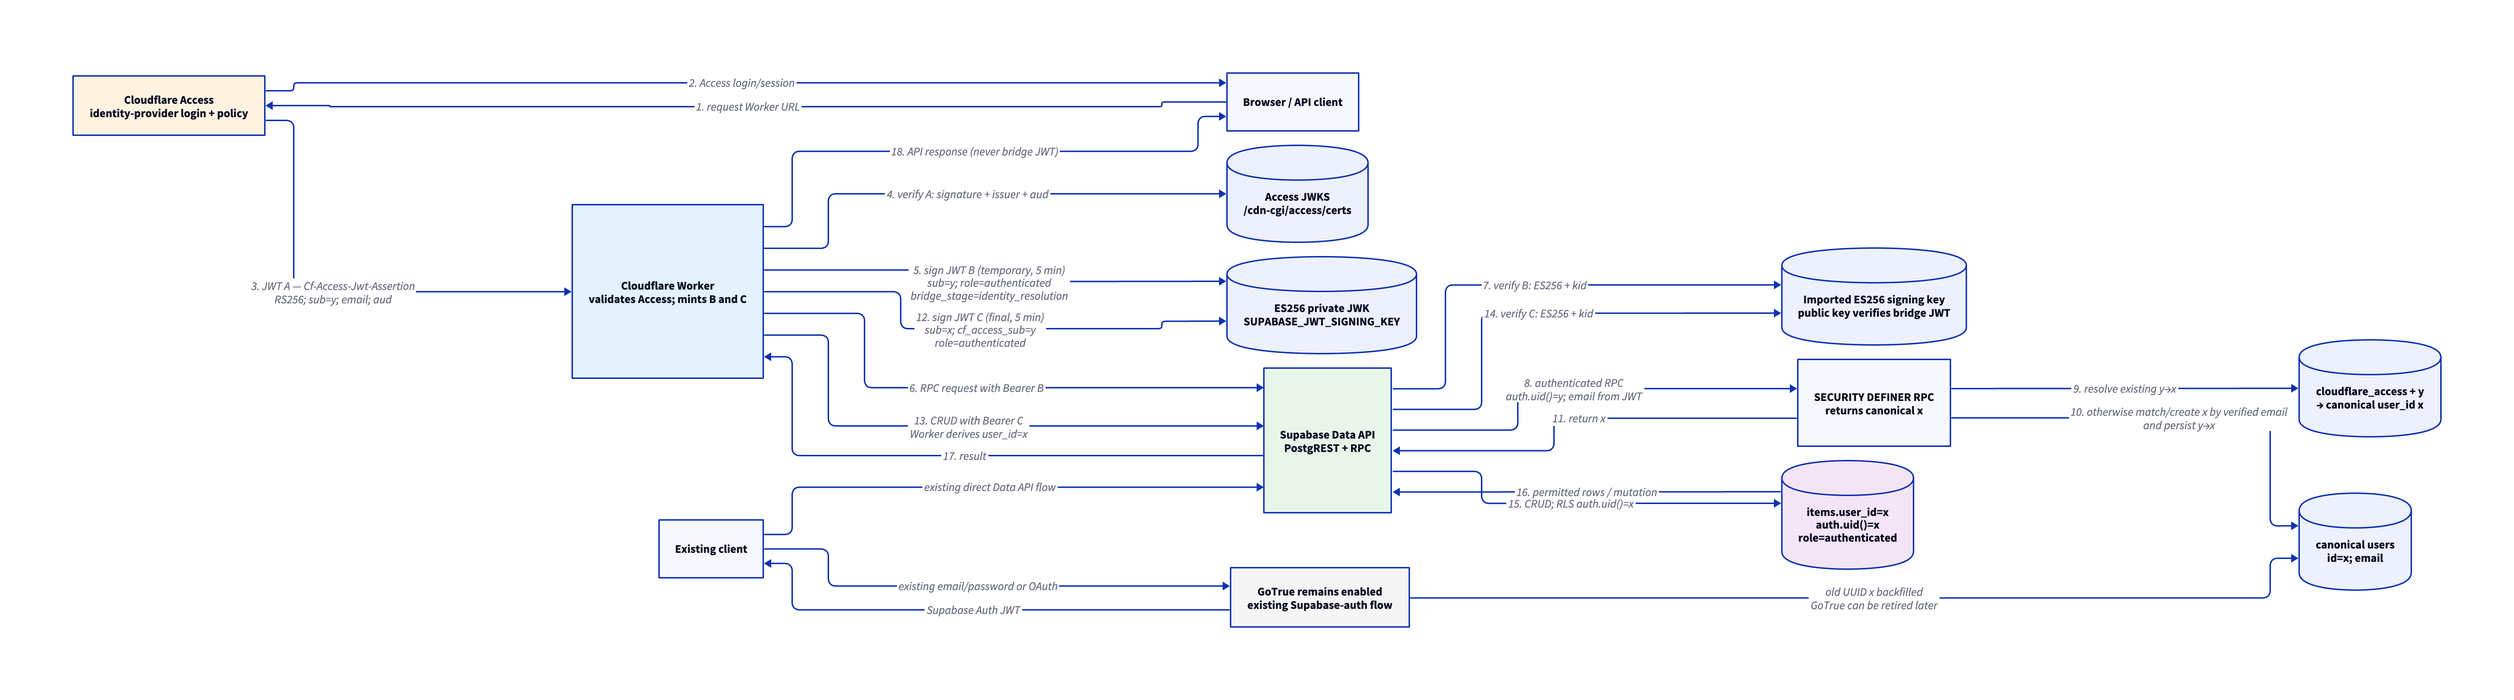
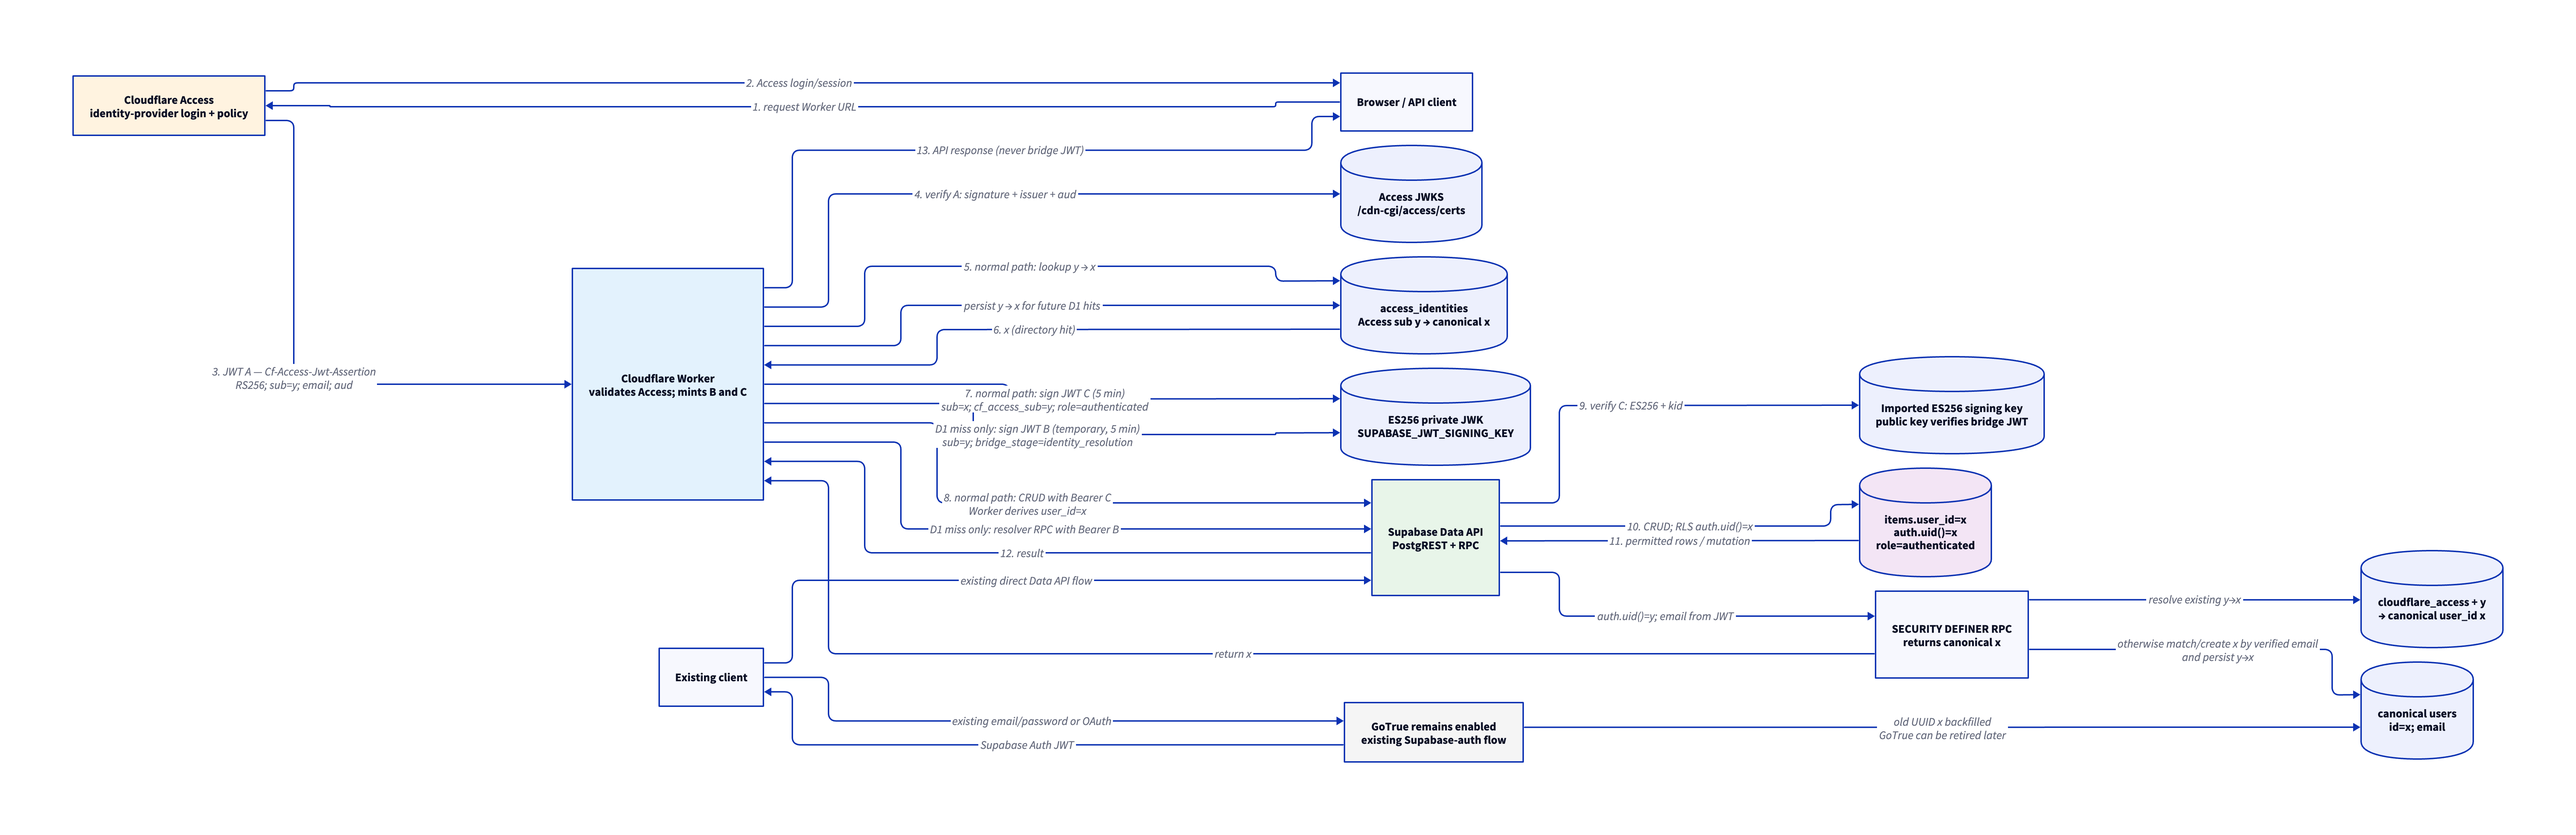
feat: add D1 identity directory for Access auth

diff --git a/src/index.ts b/src/index.ts
@@ -11,7 +11,7 @@ type AccessIdentity = {
 };
 
 // Wrangler cannot infer secret names because secrets are not stored in config.
-type WorkerEnv = {
+type WorkerEnv = Env & {
   CF_ACCESS_AUD: string;
   CF_ACCESS_TEAM_DOMAIN: string;
   DEBUG_LOG_BRIDGE_JWTS?: string;
@@ -19,6 +19,11 @@ type WorkerEnv = {
   SUPABASE_KEY: string;
   SUPABASE_JWT_KEY_ID: string;
   SUPABASE_JWT_SIGNING_KEY: string;
+};
+
+type AccessIdentityDirectoryRow = {
+  revoked_at: string | null;
+  user_id: string;
 };
 
 type PrivateSigningJwk = {
@@ -147,6 +152,18 @@ function createSupabaseClient(env: WorkerEnv, accessToken: string) {
 }
 
 async function resolveInternalUserId(identity: AccessIdentity, env: WorkerEnv): Promise<string> {
+  const directoryIdentity = await env.IDENTITY_DB
+    .prepare("select user_id, revoked_at from access_identities where access_sub = ?")
+    .bind(identity.sub)
+    .first<AccessIdentityDirectoryRow>();
+
+  if (directoryIdentity) {
+    if (directoryIdentity.revoked_at !== null || !UUID_PATTERN.test(directoryIdentity.user_id)) {
+      throw new Error("Cloudflare Access identity is not active");
+    }
+    return directoryIdentity.user_id;
+  }
+
   const resolutionJwt = await mintSupabaseJwt(identity, identity.sub, env, "identity_resolution");
   if (env.DEBUG_LOG_BRIDGE_JWTS !== "false") {
     console.log("Option C identity-resolution JWT", resolutionJwt);
@@ -158,7 +175,27 @@ async function resolveInternalUserId(identity: AccessIdentity, env: WorkerEnv): 
     throw new Error("Unable to resolve application identity");
   }
 
-  return data;
+  await env.IDENTITY_DB
+    .prepare(
+      "insert into access_identities (access_sub, user_id) values (?, ?) on conflict(access_sub) do nothing",
+    )
+    .bind(identity.sub, data)
+    .run();
+
+  const resolvedIdentity = await env.IDENTITY_DB
+    .prepare("select user_id, revoked_at from access_identities where access_sub = ?")
+    .bind(identity.sub)
+    .first<AccessIdentityDirectoryRow>();
+
+  if (
+    !resolvedIdentity ||
+    resolvedIdentity.revoked_at !== null ||
+    !UUID_PATTERN.test(resolvedIdentity.user_id)
+  ) {
+    throw new Error("Unable to persist application identity");
+  }
+
+  return resolvedIdentity.user_id;
 }
 
 export default {

diff --git a/worker-configuration.d.ts b/worker-configuration.d.ts
@@ -1,11 +1,12 @@
 /* eslint-disable */
-// Generated by Wrangler by running `wrangler types worker-configuration.d.ts` (hash: b739a9c19cff1463949c4db47674ed86)
+// Generated by Wrangler by running `wrangler types worker-configuration.d.ts` (hash: 0534aa28e9d9df5b0f38de1622c8a1b9)
 // Runtime types generated with workerd@1.20260426.1 2026-09-15 
 declare namespace Cloudflare {
 	interface GlobalProps {
 		mainModule: typeof import("./src/index");
 	}
 	interface Env {
+		IDENTITY_DB: D1Database;
 	}
 }
 interface Env extends Cloudflare.Env {}

diff --git a/docs/identity-migration-plan.md b/docs/identity-migration-plan.md
@@ -2,8 +2,12 @@
 
 ## Status
 
-**Proposal only.** It describes the next migration after Option C. No database
-schema, RLS policy, or Worker change is made by this document.
+**Phase 1 implemented locally; Worker deployment and end-to-end Access test pending.**
+
+Supabase schema migration `20260915000100_identity_migration.sql` is applied.
+Cloudflare D1 database `items-api-identities` has the `access_identities`
+directory schema applied. The Worker now checks D1 first and only uses the
+Supabase resolver on a D1 miss.
 
 ## Problem
 
@@ -30,6 +34,8 @@ may break foreign keys to `auth.users`.
 
 Introduce an application-owned canonical identity (`x`) and provider-identity
 mapping (`y -> x`). Preserve existing business ownership IDs during migration.
+Use D1 as the low-latency runtime directory after an identity has been
+provisioned; retain Supabase as the controlled provisioning and audit path.
 
 ```text
 Cloudflare Access identity
@@ -46,6 +52,11 @@ public.app_users
               |
               v
 public.items.user_id = x
+```
+
+```text
+Cloudflare D1 access_identities
+  access_sub y -> user_id x
 ```
 
 The final bridge JWT will contain:
@@ -99,18 +110,19 @@ items              keep existing ownership RLS
 ```
 
 There is one bootstrap issue: the Worker knows Access `y` before it knows the
-canonical `x`. Resolve it without a broad `service_role` secret in the Worker:
+canonical `x`. The normal path uses D1; the Supabase RPC is a one-time fallback
+without a broad `service_role` secret in the Worker:
 
 ```text
 1. Worker validates the Access assertion and obtains y + verified email.
-2. Worker mints a temporary five-minute Supabase JWT with sub=y.
-3. Worker calls a custom SQL RPC: resolve_or_provision_current_identity().
-4. RPC reads auth.uid() (y) and auth.jwt()->>'email'; it returns canonical x.
-5. Worker mints the final five-minute JWT with sub=x.
-6. Worker performs normal CRUD using the final JWT.
+2. Worker asks D1 for y -> x.
+3. On a D1 hit, Worker mints the final five-minute JWT with sub=x and performs CRUD.
+4. On a D1 miss only, Worker mints a temporary JWT with sub=y and calls
+   resolve_or_provision_current_identity().
+5. RPC returns x; Worker persists y -> x to D1 and then mints final JWT C.
 ```
 
-The RPC is a narrowly scoped `SECURITY DEFINER` function. It must:
+The fallback RPC is a narrowly scoped `SECURITY DEFINER` function. It must:
 
 - accept no caller-supplied user-ID argument;
 - derive `y` only from `auth.uid()` and email only from signed JWT claims;
@@ -149,11 +161,11 @@ but can change if the user is removed/re-added or logs into another organization
 
 ## New Access users
 
-For a first-time Access user with no mapping:
+For a first-time Access user with no D1 mapping:
 
-1. `resolve_or_provision_current_identity()` creates `app_users.id = x`.
-2. It creates `cloudflare_access:y -> x` in `user_identities`.
-3. The Worker receives `x`, mints the final JWT with `sub=x`, and proceeds.
+1. The Worker takes the D1-miss path and calls `resolve_or_provision_current_identity()`.
+2. RPC creates `app_users.id = x` and `cloudflare_access:y -> x` in `user_identities`.
+3. Worker writes `y -> x` to D1, mints final JWT C with `sub=x`, and proceeds.
 
 No new GoTrue user, password, or Supabase login session is created. This lets
 new users be fully Access-native while old users retain their historical `x`
@@ -161,15 +173,18 @@ ownership ID.
 
 ## GoTrue retirement phases
 
-1. **Compatibility:** GoTrue remains enabled; Option C can still mint `sub=x`
-   for linked old users.
-2. **Backfill/link:** migrate app-user rows, foreign keys, and Access mappings.
-   Monitor unmapped and ambiguous users.
-3. **Access-first:** all new users provision only through Access; disable new
+1. **Compatibility:** GoTrue remains enabled; Option C mints `sub=x` for linked users.
+2. **D1 directory:** D1 receives every new `y -> x` link. Worker reads D1 first;
+   JWT B/RPC remain only for a missing directory row.
+3. **Backfill/link:** seed D1 for all verified existing links, compare D1 and
+   Supabase mappings, and repair any mismatch before removing fallback use.
+4. **Access-first:** all new users provision only through Access; disable new
    password signups while retaining old login only for one-time account linking.
-4. **Retire:** after every active user is linked and no dependency remains on
-   `auth.users`, remove GoTrue sign-in paths and the remaining `auth.users`
-   foreign-key dependency.
+5. **Retire resolver:** when D1 has all active mappings and reconciliation is
+   clean, remove JWT B and `resolve_or_provision_current_identity()` from the
+   Worker request path. Retain Supabase mapping read-only for audit/rollback.
+6. **Retire GoTrue:** after every active user is linked and no dependency remains
+   on `auth.users`, remove GoTrue sign-in paths and the remaining dependency.
 
 Rollback before retirement is straightforward: keep issuing/accepting the old
 GoTrue JWTs, because their `sub` remains the same canonical `x`.
@@ -195,3 +210,5 @@ business ownership stable and makes providers replaceable.
 4. An ambiguous email cannot auto-link and receives a safe linking-required
    response.
 5. A revoked mapping stops resolution after the short bridge-JWT lifetime.
+6. A D1 directory hit creates only final JWT C and makes no Supabase resolver RPC.
+7. A D1 miss provisions once, writes D1 `y -> x`, and the next request is a hit.

diff --git a/docs/plan-option-C.md b/docs/plan-option-C.md
@@ -16,9 +16,11 @@ Client -> Cloudflare Access -> Cf-Access-Jwt-Assertion
 1. A Cloudflare Access application will protect `items-api-worker` and authenticate the caller.
 2. The Worker reads `Cf-Access-Jwt-Assertion` and validates its signature using the Access team JWKS, expected issuer, and application audience.
 3. The validated Access `sub` (must be a UUID) and `email` are the identity source.
-4. The Worker signs a new ES256 JWT containing `sub`, `role: "authenticated"`, `iat`, `exp` (five minutes), `email`, and `cf_access_sub`.
-5. `@supabase/supabase-js` receives that JWT through its `accessToken` option and sends it to the Data API.
-6. Supabase verifies the JWT with the matching imported signing key and Postgres applies existing RLS policies.
+4. The Worker resolves `Access sub y -> canonical user_id x` from the bound Cloudflare D1 `IDENTITY_DB` directory.
+5. On a D1 directory miss only, it mints a temporary five-minute resolver JWT with `sub=y` and `bridge_stage=identity_resolution`, calls the tightly-scoped Supabase RPC, and persists `y -> x` in D1.
+6. The Worker signs final JWT C with `sub=x`, `role: "authenticated"`, `iat`, `exp` (five minutes), `email`, and `cf_access_sub`.
+7. `@supabase/supabase-js` receives JWT C through its `accessToken` option and sends it to the Data API.
+8. Supabase verifies JWT C with the matching imported signing key and Postgres applies existing RLS policies.
 
 ## Required remote setup
 
@@ -37,20 +39,26 @@ Generate an ES256 private JWK and keep it in a secure temporary file. Use the **
 - `SUPABASE_JWT_SIGNING_KEY` can mint Data API-trusted JWTs. It must only exist in Cloudflare Worker Secrets and Supabase's signing-key store, and must be rotated in both places.
 - The Supabase publishable key identifies the application; it does not bypass RLS.
 
-## Existing-user mapping — deliberately deferred
+## Existing-user mapping — D1 fast path with Supabase fallback
 
 Cloudflare Access `sub` is a UUID but is not the existing Supabase Auth user UUID. The current `items.user_id = auth.uid()` RLS model works only once a row's owner UUID equals the Access `sub` used in the bridged JWT.
 
-Do not mass-update `items.user_id` yet. First inspect foreign keys to `auth.users`, create an explicit mapping from Access subject/email to the old ownership UUID, backfill safely, and then choose either an ownership rewrite or a mapping-aware RLS policy. GoTrue stays live until that migration is complete.
+`items.user_id` is not mass-updated. The canonical ownership UUID remains `x`.
+D1 stores the runtime lookup `y -> x`; Supabase `app_users` and `user_identities`
+remain the controlled provisioning and audit path while migration is in progress.
+GoTrue stays live until that migration is complete.
 
 ## Test status
 
 - Worker bundle validation: passed (`wrangler deploy --dry-run`).
+- D1 identity directory: passed. `items-api-identities` was created in Oceania;
+  `0001_access_identity_directory.sql` was applied locally and remotely.
 - Supabase signing key: passed. A fresh ES256 private JWK was imported through the Supabase Management API and activated. The matching JWK and `kid`, plus the Supabase URL and publishable key, were stored as secrets on `items-api-worker`. No key material was committed or logged.
 - Access application: passed. The application and One-time PIN policy were created in the Cloudflare dashboard. Its audience and team domain were set as `CF_ACCESS_AUD` and `CF_ACCESS_TEAM_DOMAIN` Worker secrets.
 - Deployment: passed. Option C was deployed to `https://items-api-worker.gaurkuber.workers.dev`.
 - Unauthenticated edge test: passed. A request without an Access session receives Cloudflare Access HTTP 302 login interception rather than reaching the Worker.
-- Authenticated Access assertion and end-to-end Data API/RLS: pending a browser/session request to the newly deployed Worker. Existing-user ownership mapping remains separately deferred.
+- D1-aware Worker deployment and end-to-end Data API/RLS: pending deployment
+  confirmation and an authenticated browser/session request.
 
 The proof will be a pilot user creating, reading, updating, and deleting only rows mapped to that Access identity; the existing GoTrue JWT flow remains available throughout.
 
